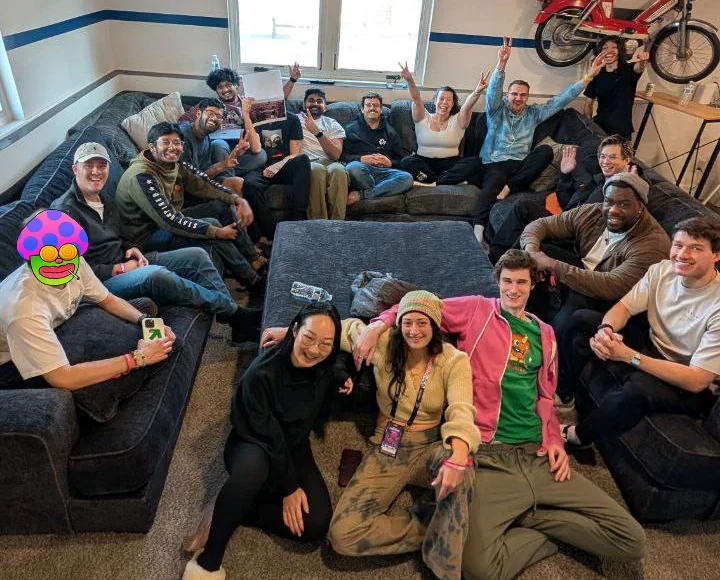
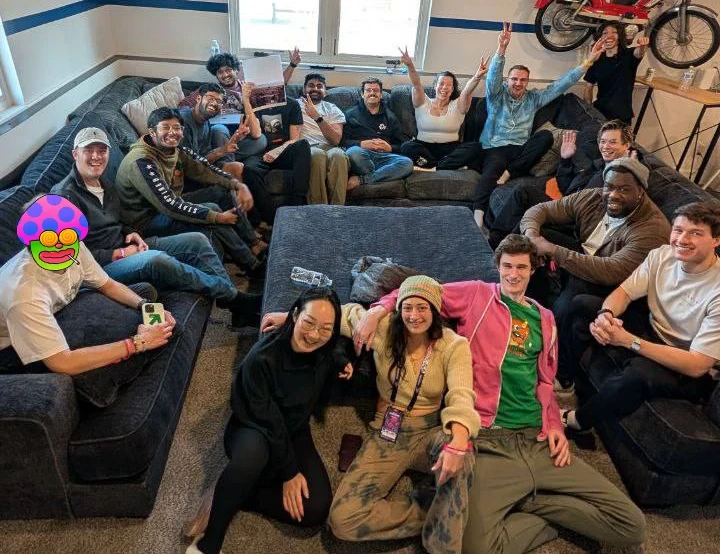
Shape the cover box to the crew photos, and show wider media whole on a blur
The Devconnect and the third ETHDenver crew photos were cropped hard into
a box nearly twice as wide as tall, and read as zoomed and soft. The box
is now 1.3 times as wide as it is tall, the shape of those two photos: the
Devconnect crew is shown whole at full width, and the ETHDenver crew is
cut from its portrait original with far more room, from the raised hands
at the back to the front row's feet, at full width.

Anything much wider than the box, the first house's crew photo and the
Homebase Map, now sits whole in the box on a soft blur of itself rather
than losing its sides. The posts keep their grounds, and the Mumbai
announcement fills its box at full width now too.

Claude-Session: https://claude.ai/code/session_01WLqJLJbNxwFh3rvZzjE3he

diff --git a/src/ui/Story.tsx b/src/ui/Story.tsx
@@ -340,13 +340,17 @@ function ChapterCard(props: {
   )
 }
 
+/** How many times wider than tall the cover box is from the sm breakpoint up; client.css draws it. */
+const CoverRatio = 1.3
+
 /**
  * The photos on top of a card. From the sm breakpoint up every cover is the
- * same box, nearly twice as wide as it is tall, so the cards line up: a
- * photo fills it, cropped a little at the edges around its middle or the
- * point it names; a wide strip, or a pair of posts, sits centered on a
- * near-black ground that matches the dark posts themselves, and a post
- * that names its own ground sits whole on that.
+ * same box, in the shape of the crew photos, so the cards line up: a photo
+ * of that shape fills it, cropped a little at the edges around its middle
+ * or the point it names; anything much wider sits whole in the box on a
+ * blur of itself; a pair of posts sits centered on a near-black ground
+ * that matches the dark posts themselves, and a post that names its own
+ * ground sits whole on that.
  * Two photos share the width in proportion to their aspect ratios, so they
  * stand at one height with no margins between or beside them, unless both
  * are wide strips, which stack instead. On phones each cover keeps its own
@@ -370,9 +374,10 @@ function Cover(props: { photos: CoverPhoto[] }) {
     >
       {props.photos.map((photo) => {
         const aspect = photo.width / photo.height
-        // A strip much wider than the box is shown whole, as is a photo on
-        // its own ground; anything closer to the box fills it.
-        const whole = aspect > 2.5 || photo.ground !== undefined
+        // A photo much wider than the box is shown whole, as is a post on
+        // its own ground; anything close to the shape of the box fills it.
+        const whole = aspect > CoverRatio * 1.2 || photo.ground !== undefined
+        const haloed = !pair && whole && photo.ground === undefined
 
         return (
           <a
@@ -383,8 +388,18 @@ function Cover(props: { photos: CoverPhoto[] }) {
             style={pair ? `--aspect: ${aspect.toFixed(4)}` : undefined}
             class={pair
               ? "block min-w-0 transition-opacity hover:opacity-90 focus:outline-none focus-visible:ring-2 focus-visible:ring-inset focus-visible:ring-brand/60"
-              : "block min-w-0 sm:h-full transition-opacity hover:opacity-90 focus:outline-none focus-visible:ring-2 focus-visible:ring-inset focus-visible:ring-brand/60"}
+              : "relative block min-w-0 sm:h-full transition-opacity hover:opacity-90 focus:outline-none focus-visible:ring-2 focus-visible:ring-inset focus-visible:ring-brand/60"}
           >
+            {haloed && (
+              <img
+                src={photo.src}
+                alt={String()}
+                aria-hidden="true"
+                draggable={false}
+                class="hidden sm:block absolute inset-0 w-full h-full object-cover blur-2xl scale-125 opacity-60 pointer-events-none"
+              />
+            )}
+
             <img
               src={photo.src}
               width={photo.width}
@@ -402,8 +417,8 @@ function Cover(props: { photos: CoverPhoto[] }) {
               class={pair
                 ? "w-full h-auto"
                 : whole
-                ? "w-full sm:h-full sm:object-contain"
-                : "w-full sm:h-full sm:object-cover"}
+                ? "relative w-full sm:h-full sm:object-contain"
+                : "relative w-full sm:h-full sm:object-cover"}
             />
           </a>
         )

diff --git a/src/story.ts b/src/story.ts
@@ -268,9 +268,6 @@ export const Chapters: Chapter[] = [
         alt:
           "The Based House Devconnect crew and friends packed onto a stage in Buenos Aires, arms up and cheering, in front of a wall of blue pixel dots",
         href: DevconnectRecapUrl,
-        // The wall of dots fills the top of the frame and the front row
-        // kneels at the bottom; this is the band that keeps every face.
-        focus: 90,
       },
     ],
     summary:
@@ -319,13 +316,10 @@ export const Chapters: Chapter[] = [
       {
         src: EthDenverReturnCrew,
         width: 720,
-        height: 580,
+        height: 554,
         alt:
           "The third Based House crew piled onto the sectional couches of the Denver house, waving at the camera",
         href: EthDenverReturnRecapUrl,
-        // The back row reaches the top of the frame and the front row the
-        // bottom; this is the band that keeps every face.
-        focus: 10,
       },
     ],
     summary:

diff --git a/src/client.css b/src/client.css
@@ -92,10 +92,9 @@
   /* The cover of a card: on phones as tall as its photos; from the sm
      breakpoint up one box on every card, with a near-black ground behind a
      post that does not fill it, unless the post names its own ground. The
-     box is 1.9 times as wide as it is tall:
-     rendered side by side, 2:1 cut faces off the bottom of the Devconnect
-     crew and 16:9 cut people off the sides of the ETHDenver crew, and this
-     keeps every face and the whole map. */
+     box is 1.3 times as wide as it is tall, the shape of the two crew photos
+     that are shown whole at full width; anything wider sits whole in it on
+     a blur of itself. Story.tsx reads the same ratio. */
   .story-cover {
     background: #0f0f0f;
     overflow: hidden;
@@ -103,7 +102,7 @@
 
   @media (min-width: 40rem) {
     .story-cover {
-      aspect-ratio: 1.9 / 1;
+      aspect-ratio: 1.3 / 1;
     }
   }
 
